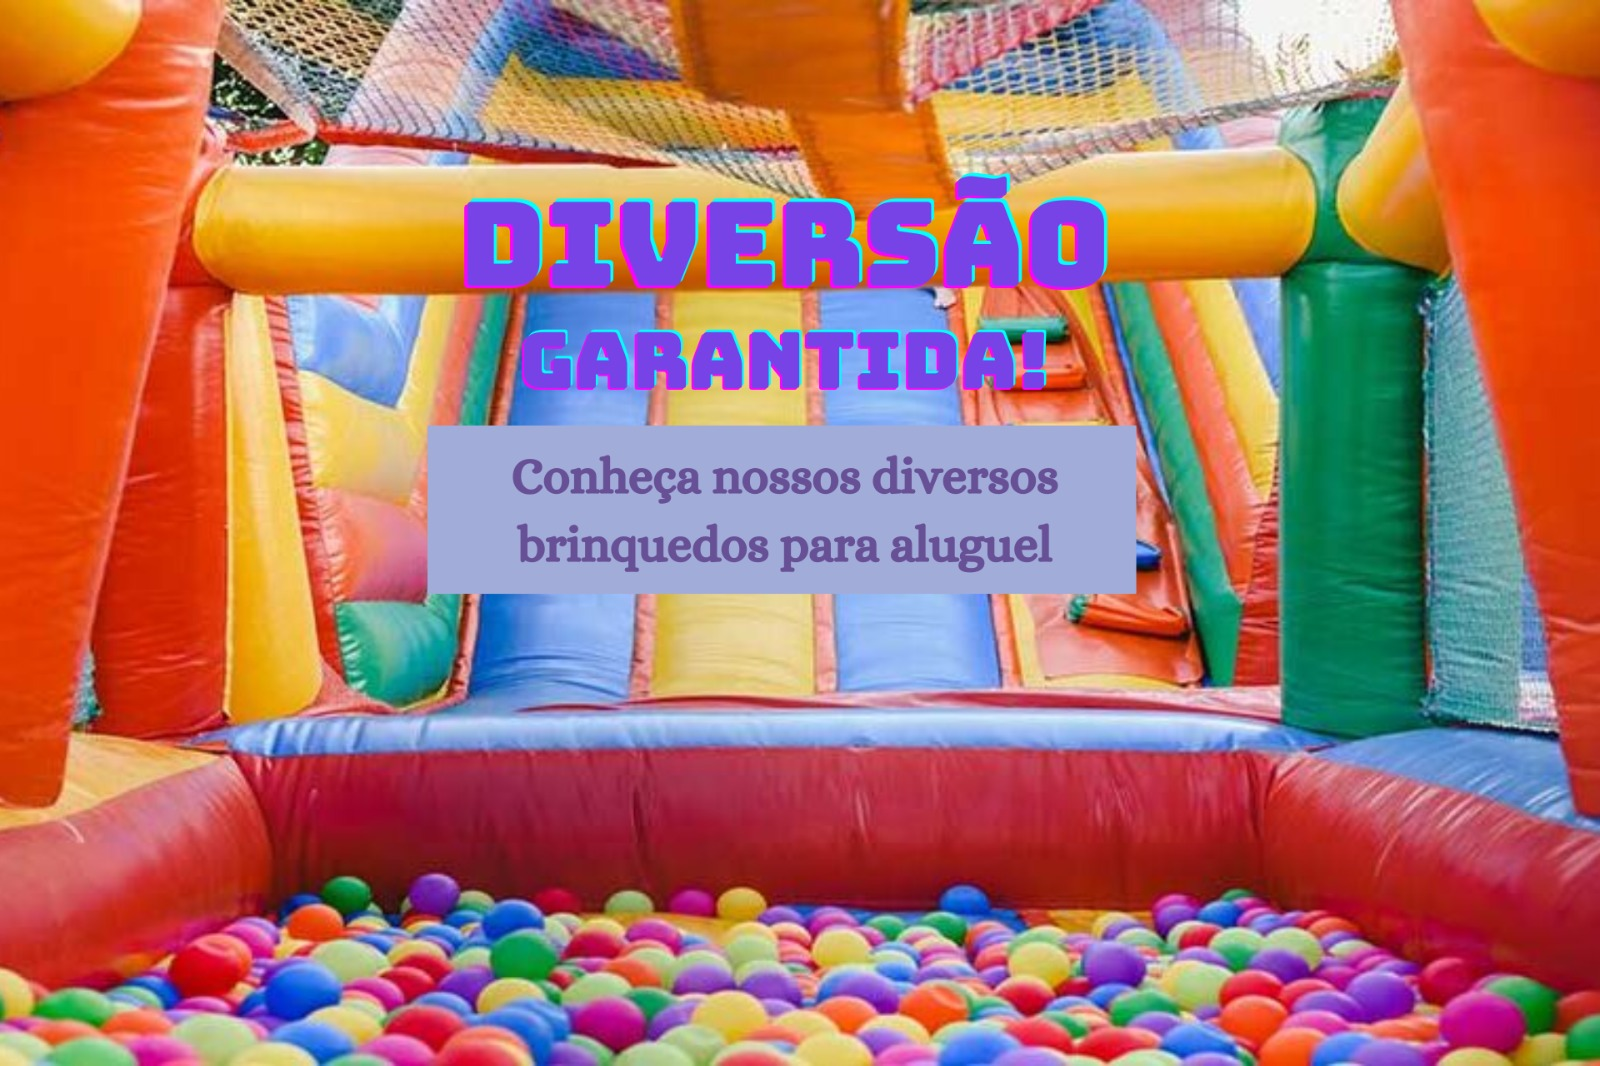
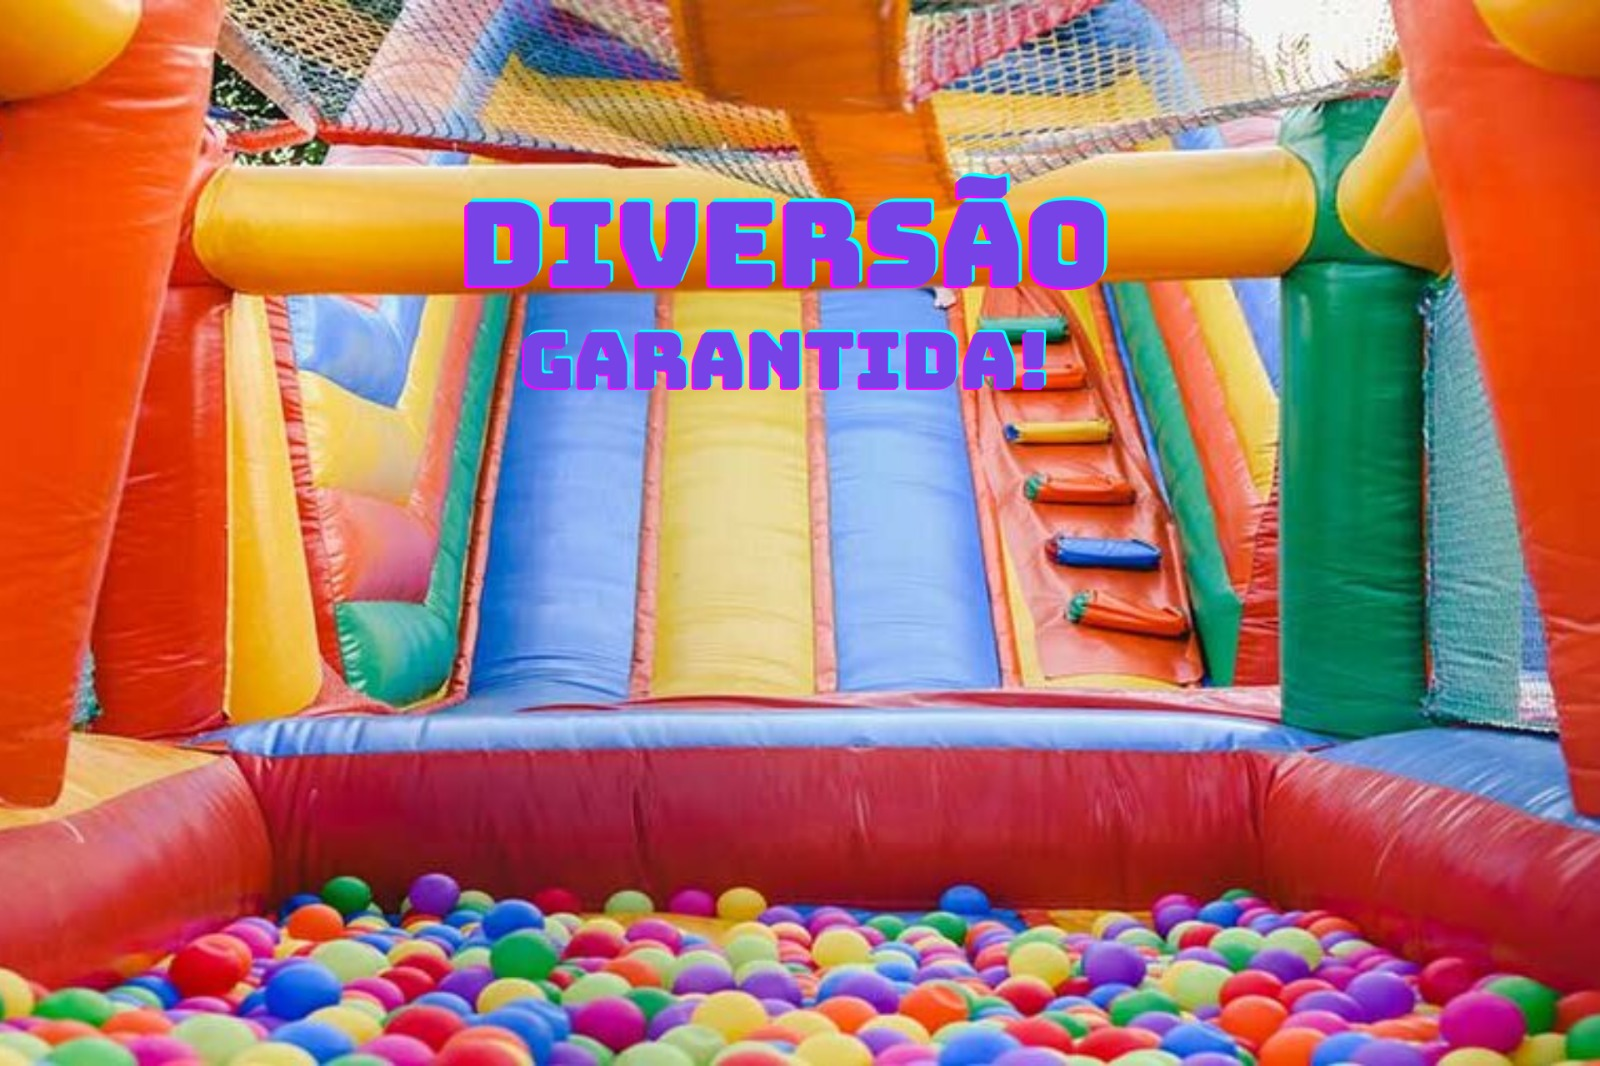
C

Changed region(s): [[0.25, 0.3715, 0.7188, 0.5572]]

diff --git a/Página_Principal/index.html b/Página_Principal/index.html
@@ -118,18 +118,18 @@
                 <div class="carousel-inner">
     
                     <div class="carousel-item active">
-                        <img src="./Site_Relogio/img/banner1.jpg" class="d-block w-100 img-fluid" alt="...">
+                        <img src="../IMG/BANNER_2.jpg" class="d-block w-100 img-fluid" alt="...">
                         <div class="carousel-caption destaque">
-                            <h5>relógio de luxo</h5>
-                            <p>Para você estar pronto em qualquer situação.</p>
+                            <h5>Linha Importada</h5>
+                            <p>Contamos com os melhores brinquedos do mercado, com pronta entraga.</p>
                         </div>
                     </div>
     
                     <div class="carousel-item">
-                        <img src="./Site_Relogio/img/banner3.jpg" class="d-block w-100 img-fluid" alt="...">
+                        <img src="../IMG/BANNER_1.jpg" class="d-block w-100 img-fluid" alt="...">
                         <div class="carousel-caption destaque">
                             <h5>Linha Importada</h5>
-                            <p>Conheça os melhores relógios suíços, com pronta entraga.</p>
+                            <p>Contamos com os melhores brinquedos do mercado, com pronta entraga.</p>
                         </div>
                     </div>
                 </div>

diff --git a/Página_Principal/style.css b/Página_Principal/style.css
@@ -217,3 +217,45 @@ body {
     margin-left: px;
 }
 
+
+
+
+/* BANNERS */
+
+
+#banners-container{
+    padding: 0;
+  }
+  
+  /*  */
+  .carousel-caption {
+    bottom: 5em;
+    padding: 1em;
+    left: 12%;
+    right: 12%;
+  }
+  
+  /*  */
+  .carousel-caption h5 {
+    font-size: 1.8em;
+  }
+  
+  /*  */
+  @media(min-width: 768px) {
+    /*  */
+    #slider .carousel-item,
+    #slider img {
+        height: 600px;
+    }
+  
+    /*  */
+    .carousel-caption {
+        left: 23%;
+        right: 23%;
+    }
+  
+    /*  */
+    .carousel-caption h5 {
+        font-size: 4em;
+    }
+  }
